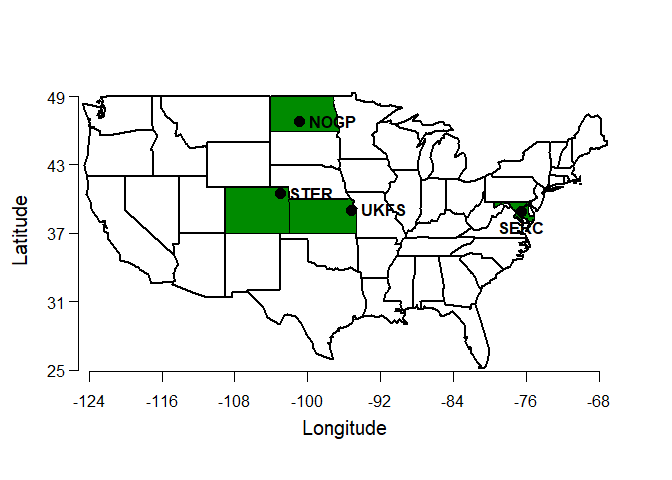
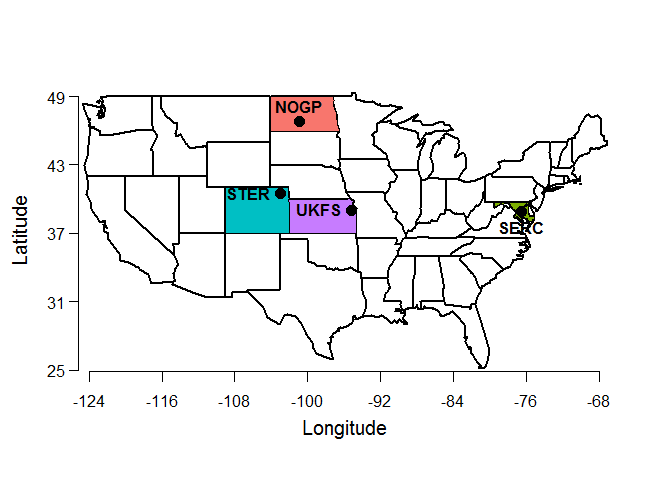
update map colors to match other graphs

diff --git a/site_map.html b/site_map.html
@@ -214,7 +214,7 @@ print(myStates)</code></pre>
 par(oma=c(2,2,1,1), mar = c(0,0,0,0),mgp=c(0,0,0))
 
 maps::map(&#39;state&#39;, col=&#39;black&#39;, lwd=2) 
-maps::map(&#39;state&#39;, region = myStates, add = T, fill=T, col=&#39;green4&#39;)  # Customize the fill color if you want!
+maps::map(&#39;state&#39;, region = myStates, add = T, fill=T, col=c(&#39;#00BFC4&#39;,&#39;#C77CFF&#39;,&#39;#7CAE00&#39;,&#39;#F8766D&#39;))  # Customize the fill color if you want!
 
 points(sites$longitude, sites$latitude, 
        col=&#39;black&#39;, pch=16, cex=1.5,lwd=1)
@@ -227,8 +227,8 @@ mtext(&quot;Latitude&quot;, 2, line=2.5, cex=1.25)
 
 text(sites$longitude, sites$latitude, sites$siteID,
      cex=1, font=2, 
-     pos = c(4, 1, 4, 4)) # 1 = below; 2 = left; 3 = above; 4 = right</code></pre>
[1 lines of base64/hex data omitted]
+     pos = c(3, 1, 2, 2)) # 1 = below; 2 = left; 3 = above; 4 = right</code></pre>
[1 lines of base64/hex data omitted]
 </div>
 
 

diff --git a/site_map.md b/site_map.md
@@ -68,7 +68,7 @@ If all your sites are in the contiguous US ("lower 48"), you can use the script 
 par(oma=c(2,2,1,1), mar = c(0,0,0,0),mgp=c(0,0,0))
 
 maps::map('state', col='black', lwd=2) 
-maps::map('state', region = myStates, add = T, fill=T, col='green4')  # Customize the fill color if you want!
+maps::map('state', region = myStates, add = T, fill=T, col=c('#00BFC4','#C77CFF','#7CAE00','#F8766D'))  # Customize the fill color if you want!
 
 points(sites$longitude, sites$latitude, 
        col='black', pch=16, cex=1.5,lwd=1)
@@ -81,7 +81,7 @@ mtext("Latitude", 2, line=2.5, cex=1.25)
 
 text(sites$longitude, sites$latitude, sites$siteID,
      cex=1, font=2, 
-     pos = c(4, 1, 4, 4)) # 1 = below; 2 = left; 3 = above; 4 = right
+     pos = c(3, 1, 2, 2)) # 1 = below; 2 = left; 3 = above; 4 = right
 ```
 
 ![](site_map_files/figure-html/myMap-1.png)<!-- -->
